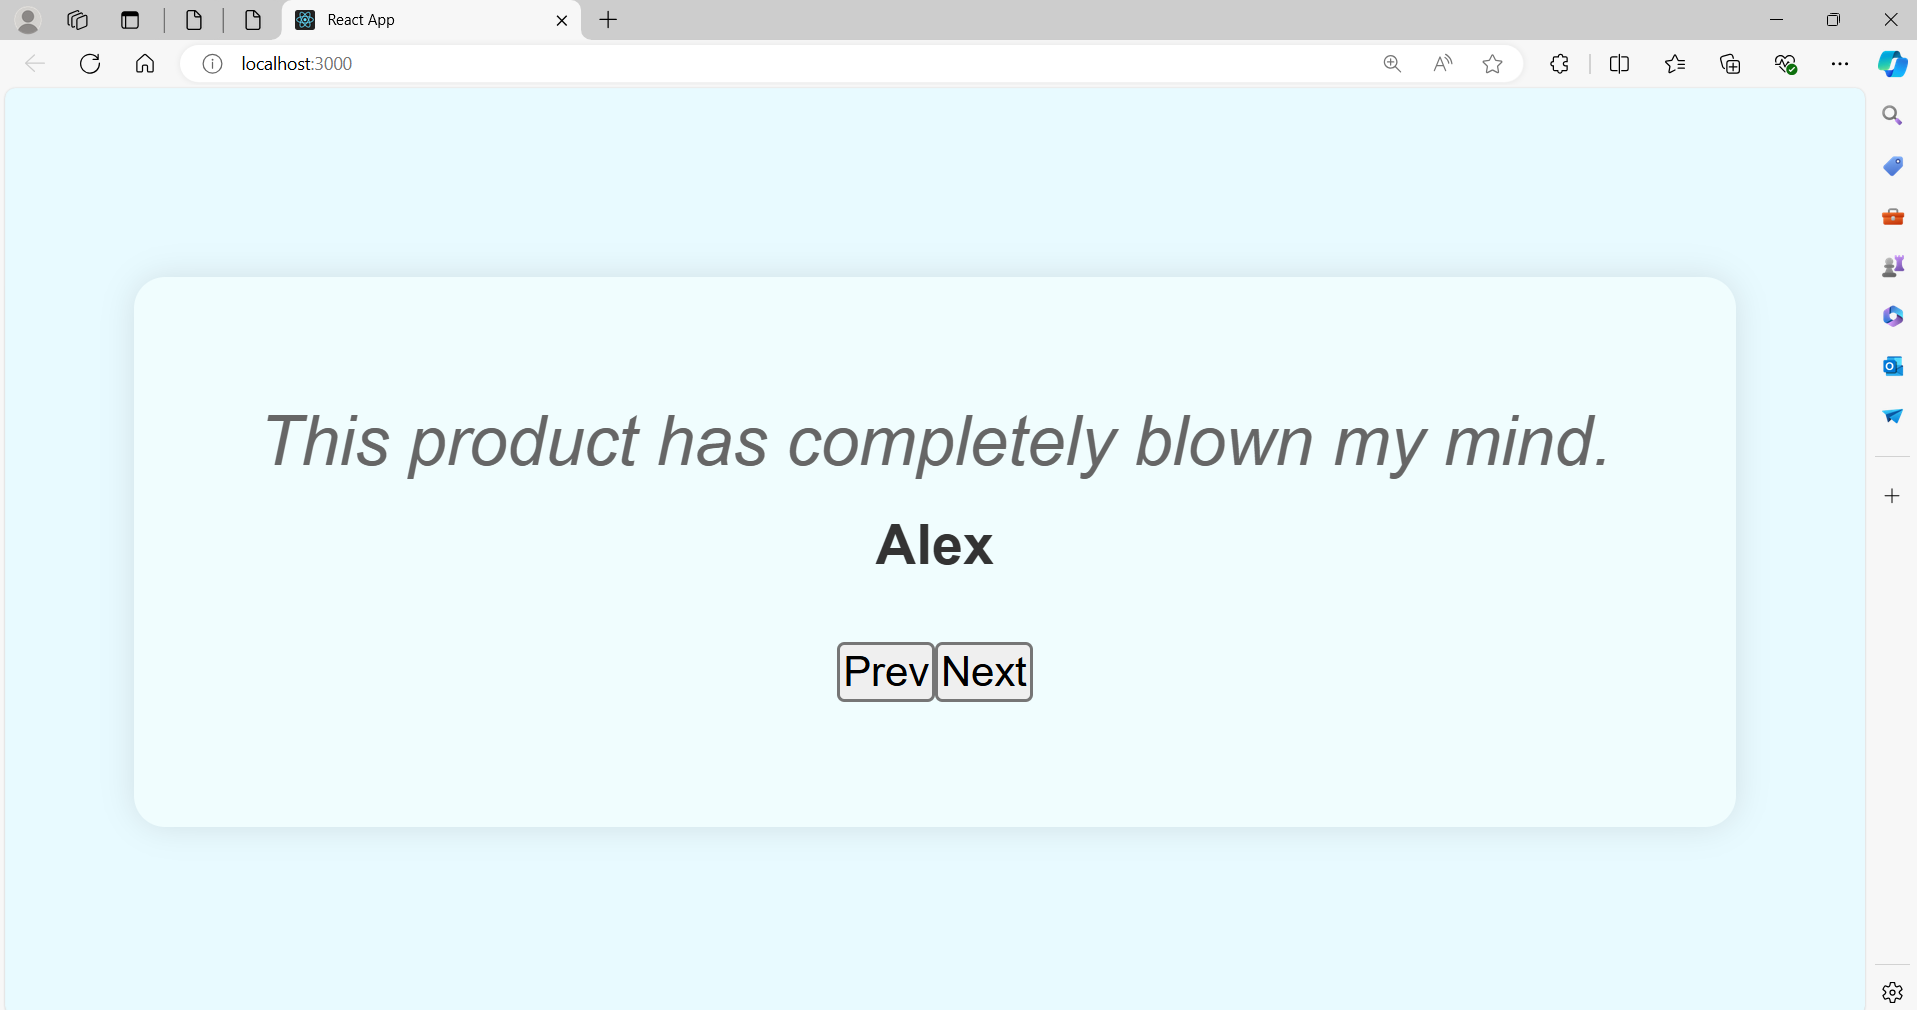
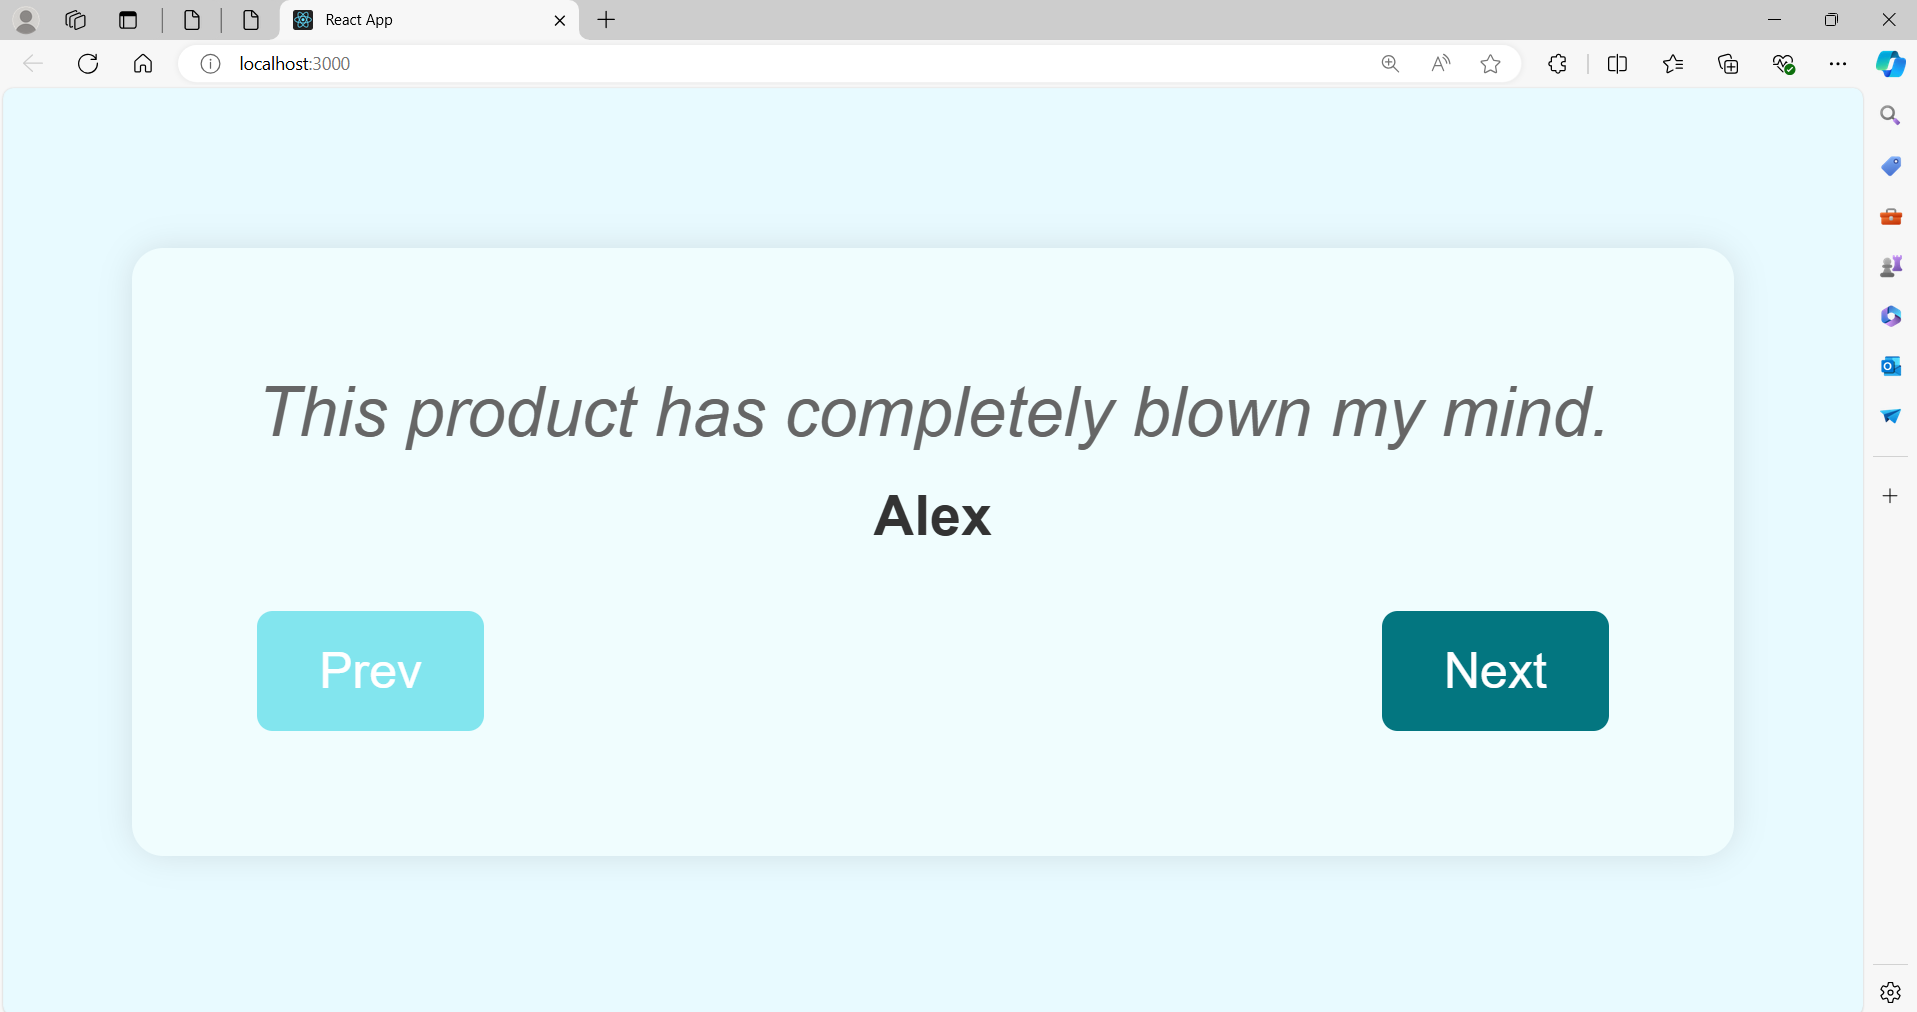
Testimonial Edit

diff --git a/Testimonials App/src/Testimonials.js b/Testimonials App/src/Testimonials.js
@@ -40,7 +40,7 @@ const Testimonials = () => {
         <div className="testimonials-author">
             {testimonials[currentIndex].author}
         </div>
-        <testimonials className="nav">
+        <testimonials className="testimonials-nav">
             <button onClick={handlePrevClick}>Prev</button>
             <button onClick={handleNextClick}>Next</button>
         </testimonials>
